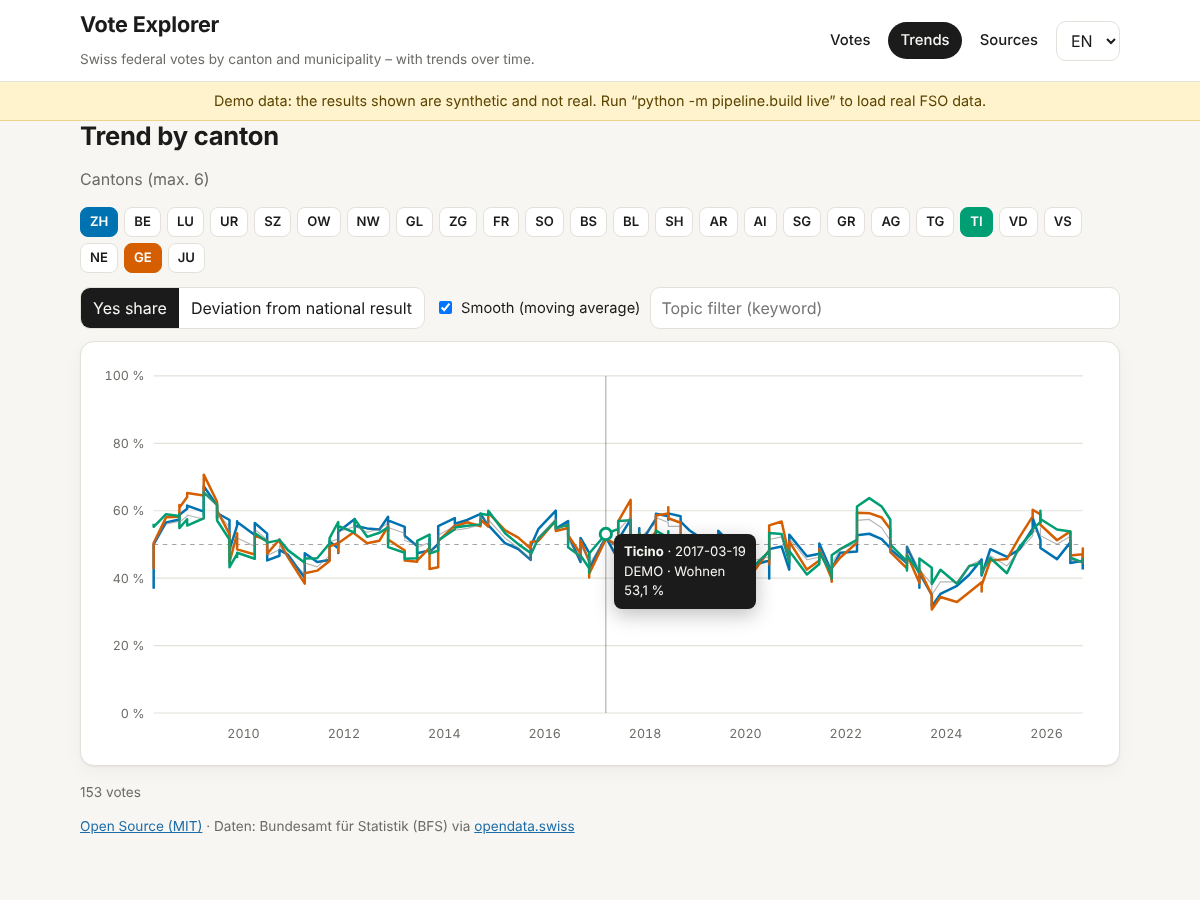
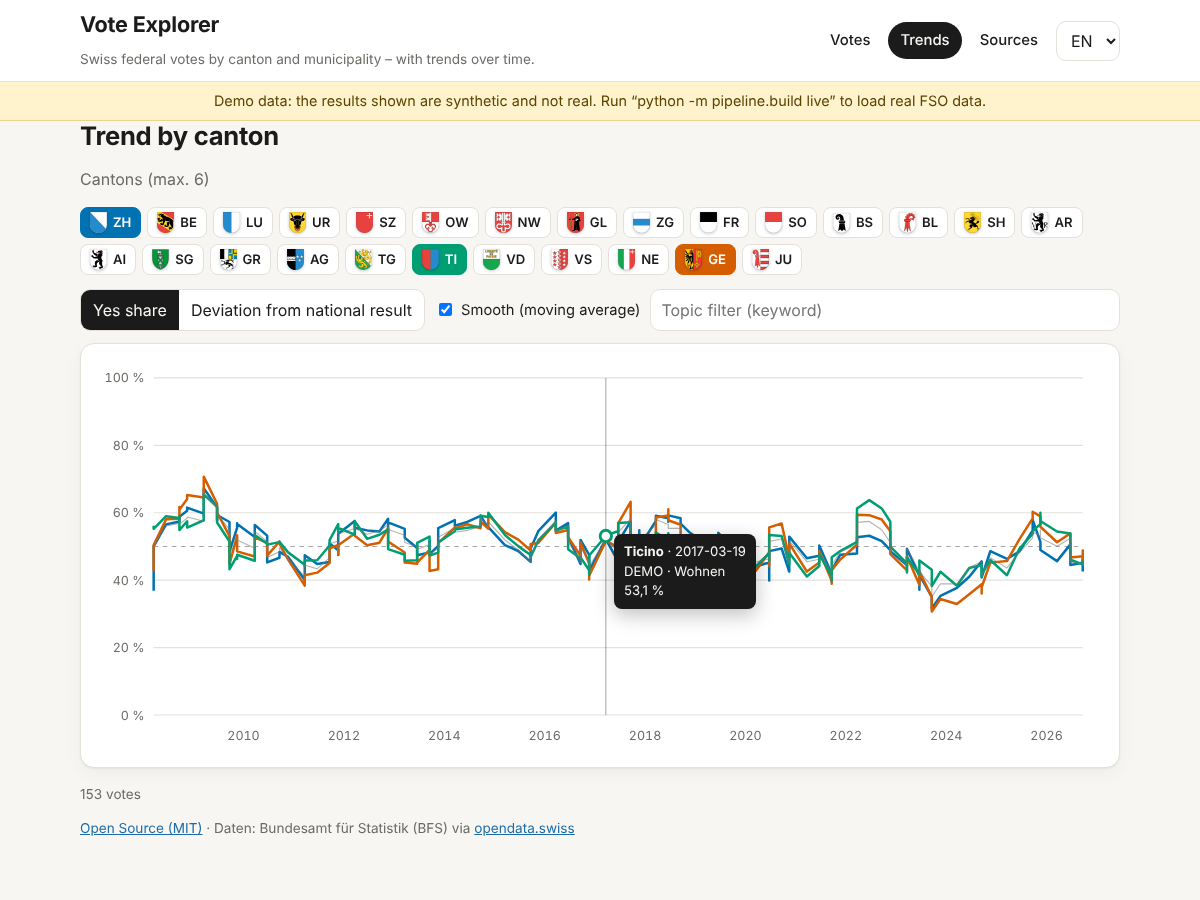
Add cantonal coats of arms
- 26 SVGs taken over from Canton Hunter (Wikimedia Commons 'Wappen ... matt' series) in web/assets/arms/
- shown in the canton tile map, rankings, tooltips, trend selector and municipality header
- test checks every canton has a well-formed, script-free SVG
- smoke test now fails on broken images and serves .svg with the right MIME type
- source note in assets/arms/README.md and on the Sources page

diff --git a/web/js/app.js b/web/js/app.js
@@ -1,6 +1,6 @@
 import {
   CANTON_CODES, CANTON_NAMES, fmtPct, fmtSigned, yesColor, textOn, voteTitle, filterVotes, cantonSeries,
-  movingAverage, cantonMajority, rankCantons, municipalityRows, municipalitySeries, esc,
+  movingAverage, cantonMajority, rankCantons, municipalityRows, municipalitySeries, esc, armsUrl,
 } from './lib.js';
 import { tileMap, lineChart, sparkline, SERIES_COLORS } from './charts.js';
 import { t, getLang, setLang } from './i18n.js';
@@ -23,6 +23,7 @@ function h(tag, props = {}, ...kids) {
   return el;
 }
 
+const armsImg = (code, size = 'xs') => h('img', { class: 'arms ' + size, src: armsUrl(code), alt: '', loading: 'lazy', decoding: 'async' });
 const names = () => CANTON_NAMES[getLang()] || CANTON_NAMES.de;
 const kindLabel = (k) => ({ initiative: t('initiative'), referendum: t('referendum'), counter: t('counter') }[k] || k || '');
 
@@ -97,15 +98,15 @@ async function viewVote(id) {
       h('div', { class: 'card' }, h('h3', {}, t('rank')),
         h('div', { class: 'seg' }, ['yes', 'delta'].map((k) => h('button', { class: (state.rankBy || 'yes') === k ? 'on' : '', onClick: () => { state.rankBy = k; render(); } }, t('by_' + k)))),
         h('ol', { class: 'rank' }, ranking.map((r) => h('li', { onClick: () => { state.selCanton = r.code; render(); }, class: r.code === sel ? 'sel' : '' },
-          h('span', { class: 'cn' }, names()[r.code]),
+          h('span', { class: 'cn' }, armsImg(r.code), h('span', {}, names()[r.code])),
           h('span', { class: 'bar' }, h('i', { style: `width:${r.yes}%;background:${yesColor(r.yes)}` })),
           h('span', { class: 'rv' }, fmtPct(r.yes)), h('span', { class: 'rd muted' }, fmtSigned(r.delta))))))),
-    h('div', { class: 'card', id: 'muni-card' }, h('h3', {}, t('municipalities') + (sel ? ' · ' + names()[sel] : '')), muniBox));
+    h('div', { class: 'card', id: 'muni-card' }, h('h3', { class: 'hd-arms' }, sel ? armsImg(sel, 'sm') : null, t('municipalities') + (sel ? ' · ' + names()[sel] : '')), muniBox));
 
   queueMicrotask(() => {
     tileMap(mapBox, values, { names: names(), selected: sel, label: t('canton_map'),
       onSelect: (c) => { state.selCanton = c; render({ keepScroll: true }); },
-      tipHtml: (c, r) => `<b>${esc(names()[c])}</b><br>${t('yes')}: ${r ? fmtPct(r.yes) : '–'}<br>${t('turnout')}: ${r ? fmtPct(r.turnout) : '–'}` });
+      tipHtml: (c, r) => `<img class="arms tipimg" src="${armsUrl(c)}" alt=""><b>${esc(names()[c])}</b><br>${t('yes')}: ${r ? fmtPct(r.yes) : '–'}<br>${t('turnout')}: ${r ? fmtPct(r.turnout) : '–'}` });
     if (sel) fillMuni(muniBox, sel, v);
   });
   return page;
@@ -124,7 +125,7 @@ async function fillMuni(box, code, vote) {
   rows.sort((a, b) => b.yes - a.yes);
   const list = (title, arr) => h('div', {}, h('h4', {}, title), h('ol', { class: 'rank' }, arr.map((r) => {
     const series = municipalitySeries(file, state.votes, r.bfs).map((p) => ({ date: p.date, value: p.value }));
-    return h('li', {}, h('span', { class: 'cn' }, r.name), h('span', { class: 'bar' }, h('i', { style: `width:${r.yes}%;background:${yesColor(r.yes)}` })),
+    return h('li', {}, h('span', { class: 'cn' }, h('span', {}, r.name)), h('span', { class: 'bar' }, h('i', { style: `width:${r.yes}%;background:${yesColor(r.yes)}` })),
       h('span', { class: 'rv' }, fmtPct(r.yes)), h('span', { class: 'rd muted' }, fmtSigned(r.delta)), h('span', { class: 'sp' }, sparkline(series)));
   })));
   box.replaceChildren(h('p', { class: 'muted' }, `${rows.length} ${t('municipalities')} · ${t('muni_hint')}`),
@@ -139,7 +140,7 @@ function viewTrends() {
     const on = T.sel.includes(c);
     const col = on ? SERIES_COLORS[T.sel.indexOf(c) % SERIES_COLORS.length] : null;
     return h('button', { class: 'chip-btn' + (on ? ' on' : ''), style: on ? `--c:${col}` : null, 'aria-pressed': on, title: names()[c],
-      onClick: () => { T.sel = on ? T.sel.filter((x) => x !== c) : [...T.sel, c].slice(-6); render({ keepScroll: true }); } }, c);
+      onClick: () => { T.sel = on ? T.sel.filter((x) => x !== c) : [...T.sel, c].slice(-6); render({ keepScroll: true }); } }, armsImg(c), c);
   }));
   const controls = h('div', { class: 'controls' },
     h('div', { class: 'seg' }, ['yes', 'delta'].map((m) => h('button', { class: T.mode === m ? 'on' : '', onClick: () => { T.mode = m; render({ keepScroll: true }); } }, t('mode_' + m)))),
@@ -181,7 +182,8 @@ function viewAbout() {
       h('li', {}, 'Ja-Anteil = Ja-Stimmen / gültige Stimmen. Der Kartogramm-Modus („Tile Grid“) zeigt jeden Kanton gleich gross.'),
       h('li', {}, 'Gemeindedaten folgen dem Gebietsstand der Quelle; durch Fusionen sind Zeitreihen einzelner Gemeinden nicht immer lückenlos.'),
       h('li', {}, 'Abweichung = Ja-Anteil des Kantons minus nationaler Ja-Anteil (Prozentpunkte, pp).'),
-      h('li', {}, 'Kantonale und kommunale Vorlagen werden nicht dargestellt; Fokus sind eidgenössische Abstimmungen.')),
+      h('li', {}, 'Kantonale und kommunale Vorlagen werden nicht dargestellt; Fokus sind eidgenössische Abstimmungen.'),
+      h('li', {}, 'Kantonswappen: Wikimedia Commons, Serie «Wappen … matt» (siehe assets/arms/README.md).')),
     h('p', { class: 'muted' }, `${t('built')}: ${state.meta.built}`));
 }
 

diff --git a/web/js/charts.js b/web/js/charts.js
@@ -1,5 +1,5 @@
 // Dependency-free SVG charts.
-import { TILE_GRID, yesColor, textOn, niceTicks, dateToYear, fmtPct } from './lib.js';
+import { TILE_GRID, yesColor, textOn, niceTicks, dateToYear, fmtPct, armsUrl } from './lib.js';
 
 const NS = 'http://www.w3.org/2000/svg';
 export const SERIES_COLORS = ['#0072B2', '#D55E00', '#009E73', '#CC79A7', '#E69F00', '#56B4E9'];
@@ -45,8 +45,10 @@ export function tileMap(container, values, opts = {}) {
       role: opts.onSelect ? 'button' : null, 'aria-label': `${opts.names?.[code] || code}: ${v ? fmtPct(v.yes) : 'keine Daten'}` });
     const fill = yesColor(v?.yes);
     g.append(svg('rect', { x, y, width: size, height: size, rx: 7, fill }));
-    g.append(svg('text', { x: x + size / 2, y: y + size / 2 - 2, class: 't-code', fill: textOn(v?.yes) }, [document.createTextNode(code)]));
-    g.append(svg('text', { x: x + size / 2, y: y + size / 2 + 16, class: 't-val', fill: textOn(v?.yes) },
+    const aw = 19.5, ah = aw * 493 / 406;
+    g.append(svg('image', { href: armsUrl(code), x: x + (size - aw) / 2, y: y + 4, width: aw, height: ah, class: 't-arms' }));
+    g.append(svg('text', { x: x + size / 2, y: y + 41, class: 't-code', fill: textOn(v?.yes) }, [document.createTextNode(code)]));
+    g.append(svg('text', { x: x + size / 2, y: y + 55, class: 't-val', fill: textOn(v?.yes) },
       [document.createTextNode(v ? v.yes.toFixed(1).replace('.', ',') : '–')]));
     g.addEventListener('mousemove', (e) => tip.show(opts.tipHtml ? opts.tipHtml(code, v) : `<b>${opts.names?.[code] || code}</b><br>${v ? fmtPct(v.yes) : '–'}`, e.clientX, e.clientY));
     g.addEventListener('mouseleave', tip.hide);

diff --git a/web/style.css b/web/style.css
@@ -99,3 +99,13 @@ ol.rank li:hover, ol.rank li.sel { background: color-mix(in srgb, var(--accent) 
 .error { background: var(--surface); border: 1px solid var(--line); border-radius: var(--radius); padding: 20px; }
 pre { background: var(--bg); padding: 12px; border-radius: 8px; overflow: auto; }
 @media (prefers-reduced-motion: reduce) { * { transition: none !important; } }
+
+/* coats of arms */
+img.arms{display:block;height:auto;aspect-ratio:406/493;object-fit:contain;flex:none;filter:drop-shadow(0 1px 1.5px rgba(19,35,58,.25))}
+img.arms.xs{width:17px} img.arms.sm{width:24px}
+.t-arms{pointer-events:none}
+.cn{display:flex;gap:8px;align-items:center;min-width:0}
+.cn span{overflow:hidden;text-overflow:ellipsis;white-space:nowrap}
+.hd-arms{display:flex;gap:10px;align-items:center}
+.chip-btn{display:inline-flex;gap:6px;align-items:center}
+.tip img.tipimg{width:22px;float:left;margin:0 8px 2px 0}

diff --git a/web/js/lib.js b/web/js/lib.js
@@ -23,6 +23,9 @@ export const TILE_GRID = {
   GE:[0,5],
 };
 
+/** Path of a canton's coat of arms (SVG, ~406:493 aspect). */
+export const armsUrl = (code) => `assets/arms/${code}.svg`;
+
 export const fmtPct = (x, d = 1) => (x == null || Number.isNaN(x) ? '–' : x.toFixed(d).replace('.', ',') + ' %');
 export const fmtSigned = (x, d = 1) => (x == null ? '–' : (x > 0 ? '+' : x < 0 ? '−' : '±') + Math.abs(x).toFixed(d).replace('.', ',') + ' pp');
 

diff --git a/web/assets/arms/README.md b/web/assets/arms/README.md
@@ -1,0 +1,10 @@
+# Cantonal coats of arms
+
+26 SVG files named by canton code (`ZH.svg` … `JU.svg`), used in the tile map, rankings and trend selector.
+
+**Source:** Wikimedia Commons, series "Wappen … matt" (flat versions), marked public domain; metadata stripped.
+They were taken over unchanged from the author's *Canton Hunter* project (`xirvik.ch/canton-hunter`).
+
+Per-file authorship/licence details are on the respective Commons file pages. Before reusing the
+files outside this project, check those pages. Cantonal coats of arms are official emblems: use them
+for identification/information only, not in a way that suggests official endorsement.
